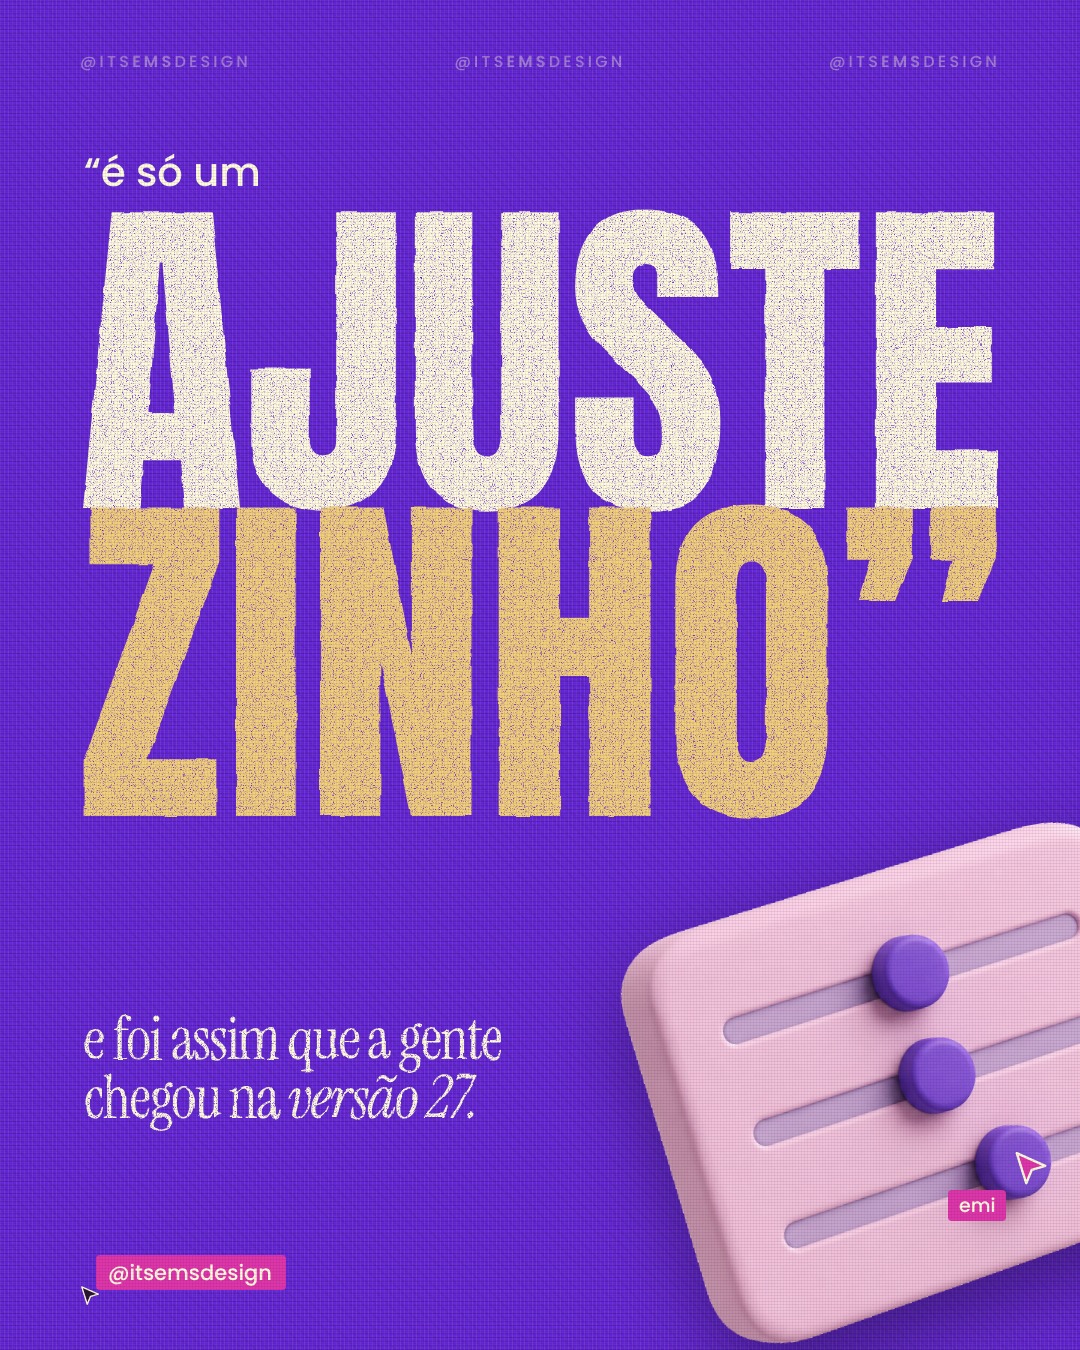
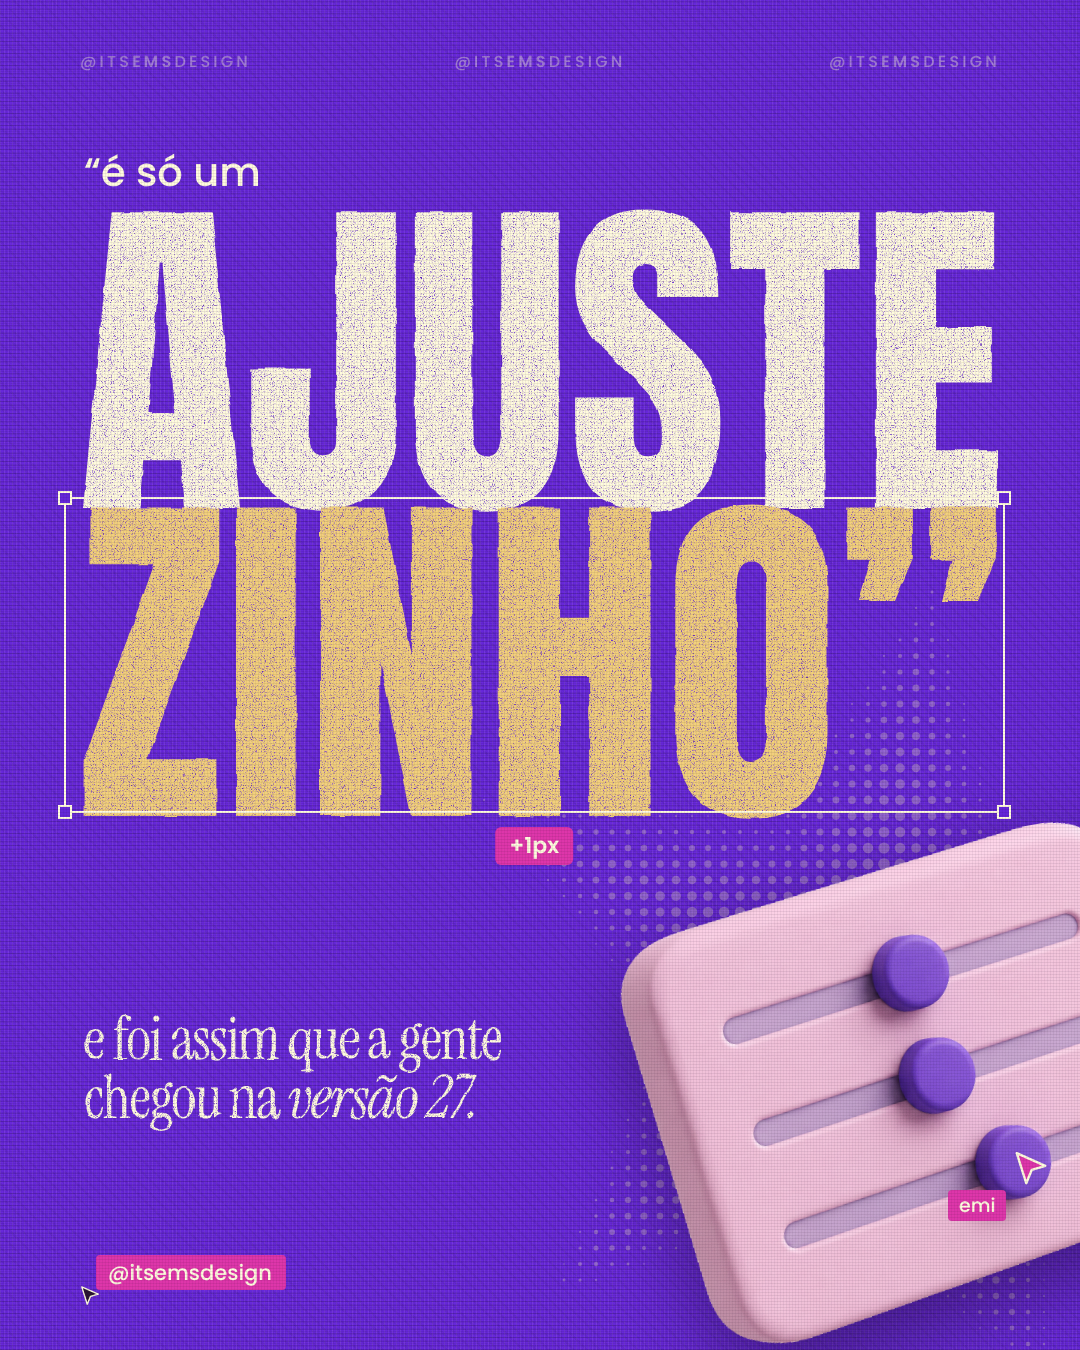
Ajustezinho v8, capa: seleção do Figma com +1px e estrela em retícula
Moldura de seleção em volta do ZINHO com a etiqueta +1px, ligando o
painel de Ajustes ao título, e a estrela em retícula lavanda ao fundo.

Claude-Session: https://claude.ai/code/session_01CmCiK8ktcTUDK4gcGU9jQJ

Changed region(s): [[0.4583, 0.4978, 0.9472, 0.7156], [0.5806, 0.84, 0.6417, 0.9022]]

diff --git a/Emi/ems-so-um-ajustezinho/projeto/carrossel-v8.html b/Emi/ems-so-um-ajustezinho/projeto/carrossel-v8.html
@@ -93,6 +93,13 @@ body{background:#140a19;width:max-content}
 #l1 .frase{left:84px;top:1010px;font-size:60px;line-height:.98;color:var(--ivory);z-index:4}
 #l1 .frase em{color:var(--ivory)}
 #l1 .handle{left:96px;bottom:60px}
+#l1 .estrela{left:0;top:0;width:1080px;height:1350px;z-index:1;pointer-events:none}
+/* moldura de seleção do Figma (SelectionBox) em volta do "ZINHO”", com a etiqueta de medida */
+#l1 .selz{border:2px solid var(--ivory);z-index:5;pointer-events:none}
+#l1 .selz i{position:absolute;width:14px;height:14px;background:var(--violeta);border:2px solid var(--ivory)}
+#l1 .selz i:nth-of-type(1){left:-8px;top:-8px}#l1 .selz i:nth-of-type(2){right:-8px;top:-8px}
+#l1 .selz i:nth-of-type(3){left:-8px;bottom:-8px}#l1 .selz i:nth-of-type(4){right:-8px;bottom:-8px}
+#l1 .selz .medida{position:absolute;left:50%;bottom:-54px;transform:translateX(-50%);background:var(--pink);color:var(--ivory);font:600 22px/1 var(--sans);padding:8px 14px;border-radius:6px;white-space:nowrap}
 
 /* ---------- 02 loop: o desenho é o próprio loop ---------- */
 #l2 .lead{left:0;right:0;top:132px;text-align:center;font-size:34px;color:var(--wine)}
@@ -194,6 +201,8 @@ body{background:#140a19;width:max-content}
 <section class="lamina tecido" id="l1" style="--c:var(--violeta)">
   <div class="agua" style="color:var(--ivory)"><span>@ITS<b>EMS</b>DESIGN</span><span>@ITS<b>EMS</b>DESIGN</span><span>@ITS<b>EMS</b>DESIGN</span></div>
   <p class="lead">“é só um</p>
+  <svg class="estrela" data-estrela="cx:860,cy:1000,R:440,cor:#c0a5c4,rot:10"></svg>
+  <div class="selz" id="selz"><i></i><i></i><i></i><i></i><span class="medida">+1px</span></div>
   <h1 class="poster impresso" id="poster"><span class="p1">ajuste</span><span class="p2">zinho”</span></h1>
   <!-- na frente da palavra e atravessando o corte 1|2 -->
   <img class="ajustes" src="recortes/ajustes-3d.png" alt="">
@@ -313,6 +322,33 @@ function posicionaEtapas() {
     el.style.left = f(x - el.offsetWidth / 2) + 'px'; el.style.top = f(y - el.offsetHeight / 2) + 'px';
   });
 }
+function estrela(svg){
+  const o = Object.fromEntries(svg.dataset.estrela.split(',').map(p => p.split(':')).map(([k,v]) => [k, isNaN(+v) ? v : +v]));
+  const {cx, cy, R, cor} = o, ri = R * .46, rot = o.rot || 0, passo = 16, max = 7.2;
+  const pts = [];
+  for (let k = 0; k < 10; k++) { const a = (rot - 90 + k * 36) * Math.PI / 180, r = k % 2 ? ri : R; pts.push([cx + r * Math.cos(a), cy + r * Math.sin(a)]); }
+  const dentro = (x, y) => { let c = false; for (let i = 0, j = 9; i < 10; j = i++) { const [xi, yi] = pts[i], [xj, yj] = pts[j]; if ((yi > y) != (yj > y) && x < (xj - xi) * (y - yi) / (yj - yi) + xi) c = !c; } return c; };
+  const borda = th => { let lo = 0, hi = R * 1.01; for (let n = 0; n < 18; n++) { const m = (lo + hi) / 2; dentro(cx + m * Math.cos(th), cy + m * Math.sin(th)) ? lo = m : hi = m; } return lo; };
+  let s = '';
+  for (let y = cy - R; y <= cy + R; y += passo) for (let x = cx - R; x <= cx + R; x += passo) {
+    if (!dentro(x, y)) continue;
+    const d = Math.hypot(x - cx, y - cy), t = d / Math.max(borda(Math.atan2(y - cy, x - cx)), 1);
+    const r = max * Math.pow(Math.max(0, 1 - t), .55);
+    if (r > .7) s += `<circle cx="${x.toFixed(1)}" cy="${y.toFixed(1)}" r="${r.toFixed(2)}"/>`;
+  }
+  svg.setAttribute('viewBox', '0 0 1080 1350');
+  svg.innerHTML = `<g fill="${cor}" opacity=".45">${s}</g>`;
+}
+document.querySelectorAll('[data-estrela]').forEach(estrela);
+
+function posicionaSel() {
+  const sp = document.querySelector('#poster .p2'), lam = document.getElementById('l1').getBoundingClientRect();
+  const r = document.createRange(); r.selectNodeContents(sp); const b = r.getBoundingClientRect();
+  const el = document.getElementById('selz'), pad = 14;
+  // altura da caixa = a altura real das letras (cap-height da Anton ~ .72em)
+  const fs = parseFloat(getComputedStyle(sp).fontSize), cap = fs * .80, top = b.top - lam.top + (b.height - cap) / 2 - fs * .025;
+  Object.assign(el.style, { left: (b.left - lam.left - pad) + 'px', top: (top - pad) + 'px', width: (b.width + pad) + 'px', height: (cap + 2 * pad) + 'px' });
+}
 function ajustaPoster() {
   const box = document.getElementById('poster'), W = box.clientWidth;
   box.querySelectorAll('span').forEach(sp => {
@@ -320,7 +356,7 @@ function ajustaPoster() {
     const w = sp.getBoundingClientRect().width; sp.style.fontSize = (100 * W / w).toFixed(1) + 'px'; sp.style.display = 'block';
   });
 }
-Promise.all([document.fonts.ready, ...[...document.images].map(i => i.decode().catch(() => {}))]).then(() => { ajustaPoster(); posicionaEtapas(); window.READY = true; });
+Promise.all([document.fonts.ready, ...[...document.images].map(i => i.decode().catch(() => {}))]).then(() => { ajustaPoster(); posicionaEtapas(); posicionaSel(); window.READY = true; });
 </script>
 </body>
 </html>

diff --git a/Emi/ems-so-um-ajustezinho/README.md b/Emi/ems-so-um-ajustezinho/README.md
@@ -19,7 +19,7 @@ Referência de formato: post da @agrizzart sobre manter o perfil ativo com a age
 - **v1** (`entrega/v1/`, `projeto/carrossel.html`): primeira versão, digital e chapada.
 - **v7** (`entrega/v7/`, `projeto/carrossel-v7.html`): a disciplina da lâmina aprovada (a da bússola) em todas; capa-pôster; pasta como janela monocromática; celular desenhado em código.
 - **v8** (`entrega/v8/`, `projeto/carrossel-v8.html`): **em teste.** Igual à v7, mas com **objetos 3D gerados**, recortados e montados sobre os fundos de textura da EMS:
-  - **capa:** o papel amassado (que incomodava a Emi) sai e entra um **painel de Ajustes 3D** (os controles deslizantes do Photoshop/Lightroom, em rosa e violeta), com o cursor "emi" puxando o último controle só um tiquinho; o painel atravessa o corte para a lâmina 2. Foram descartadas antes: teclas (a Emi já fez capa com teclas) e fita métrica (costura não tem a ver com design);
+  - **capa:** o papel amassado (que incomodava a Emi) sai e entra um **painel de Ajustes 3D** (os controles deslizantes do Photoshop/Lightroom, em rosa e violeta), com o cursor "emi" puxando o último controle só um tiquinho; o painel atravessa o corte para a lâmina 2. Para o objeto conversar com o título: `SelectionBox` (moldura do Figma) em volta do "ZINHO”" com a etiqueta rosa "+1px" (a piada do ajustezinho) e a estrela em retícula lavanda atrás do painel. Foram descartadas antes: teclas (a Emi já fez capa com teclas) e fita métrica (costura não tem a ver com design);
   - **pasta-envelope rosa com coração violeta** (escolhida pela Emi entre a rosa e uma lilás com elástico; a primeira, amarela, foi achada "feinha"), com as fichas das versões saindo de dentro (nomes datilografados já na imagem), `SelectionBox` + cursor "emi" na `logo_v1.png` e o aviso "spoiler: aprovaram a v1" (referência 17 da pesquisa);
   - **celular 3D ameixa** com a conversa na tela ("oii! antes de qualquer rabisco, me conta uma coisa:" + "como é a sua marca em três palavras?" + digitando), como a Emi preferiu; conteúdo encaixado em perspectiva nos 4 cantos da tela, respeitando a ilha (referência 10).
 
